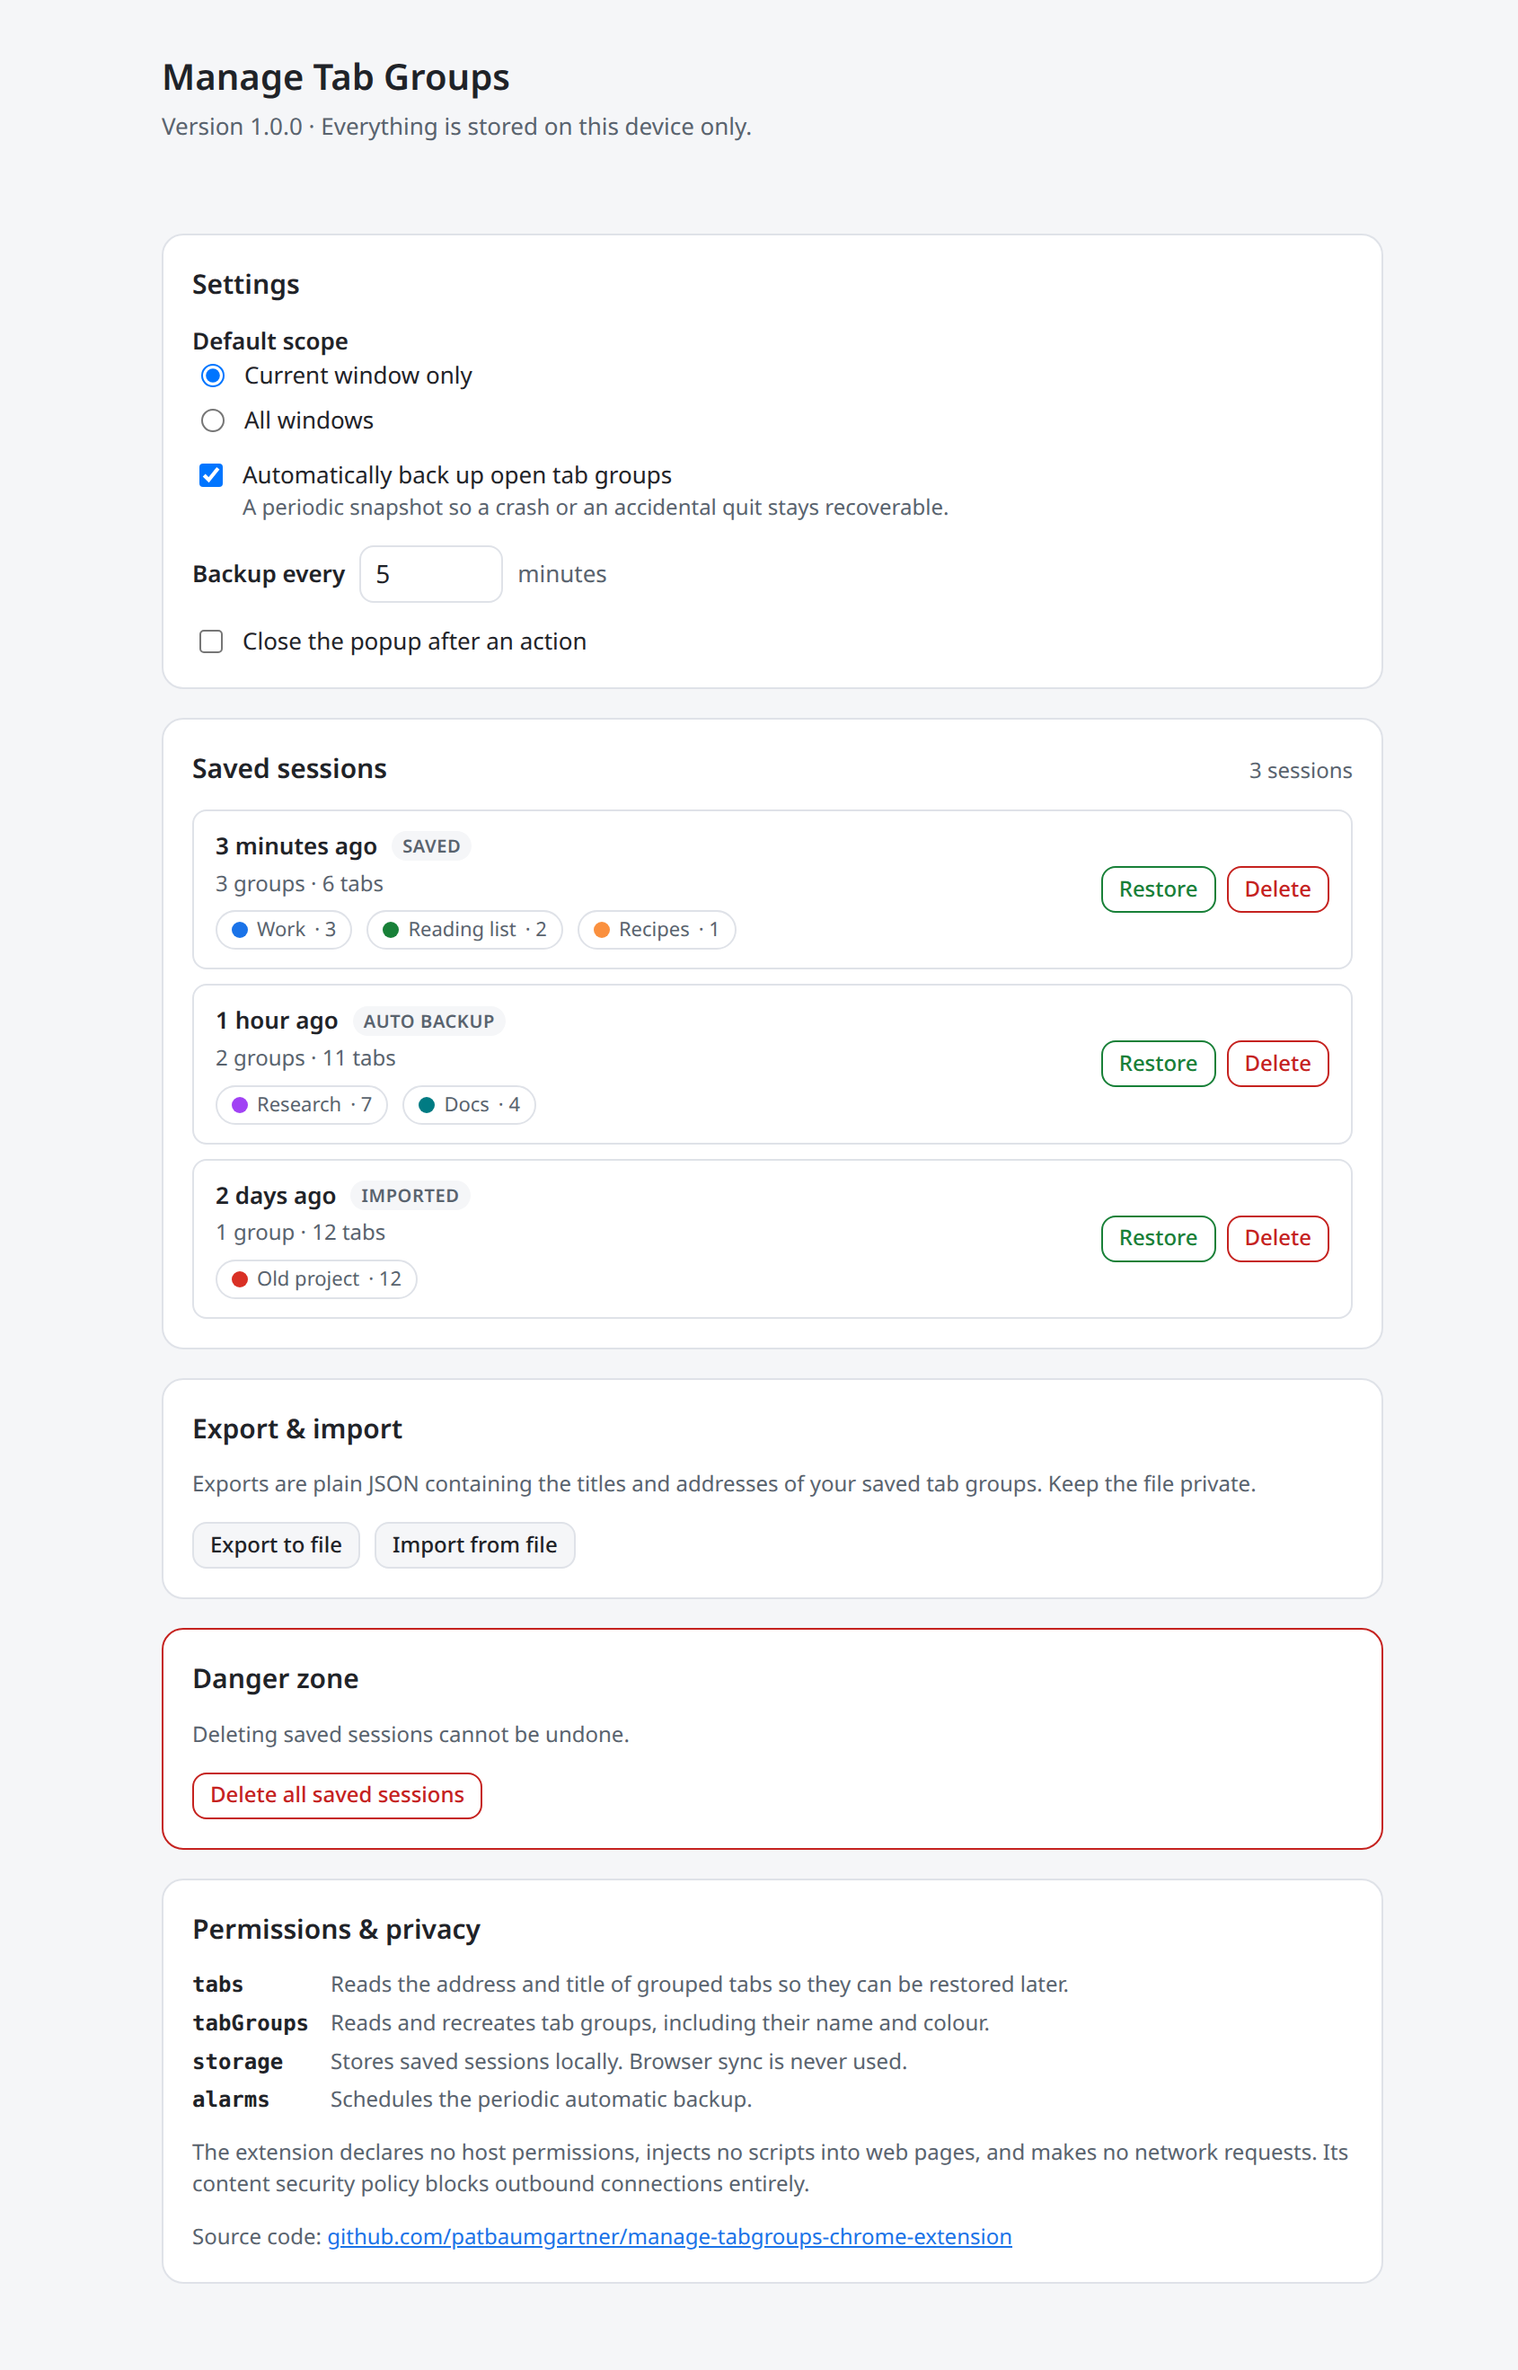
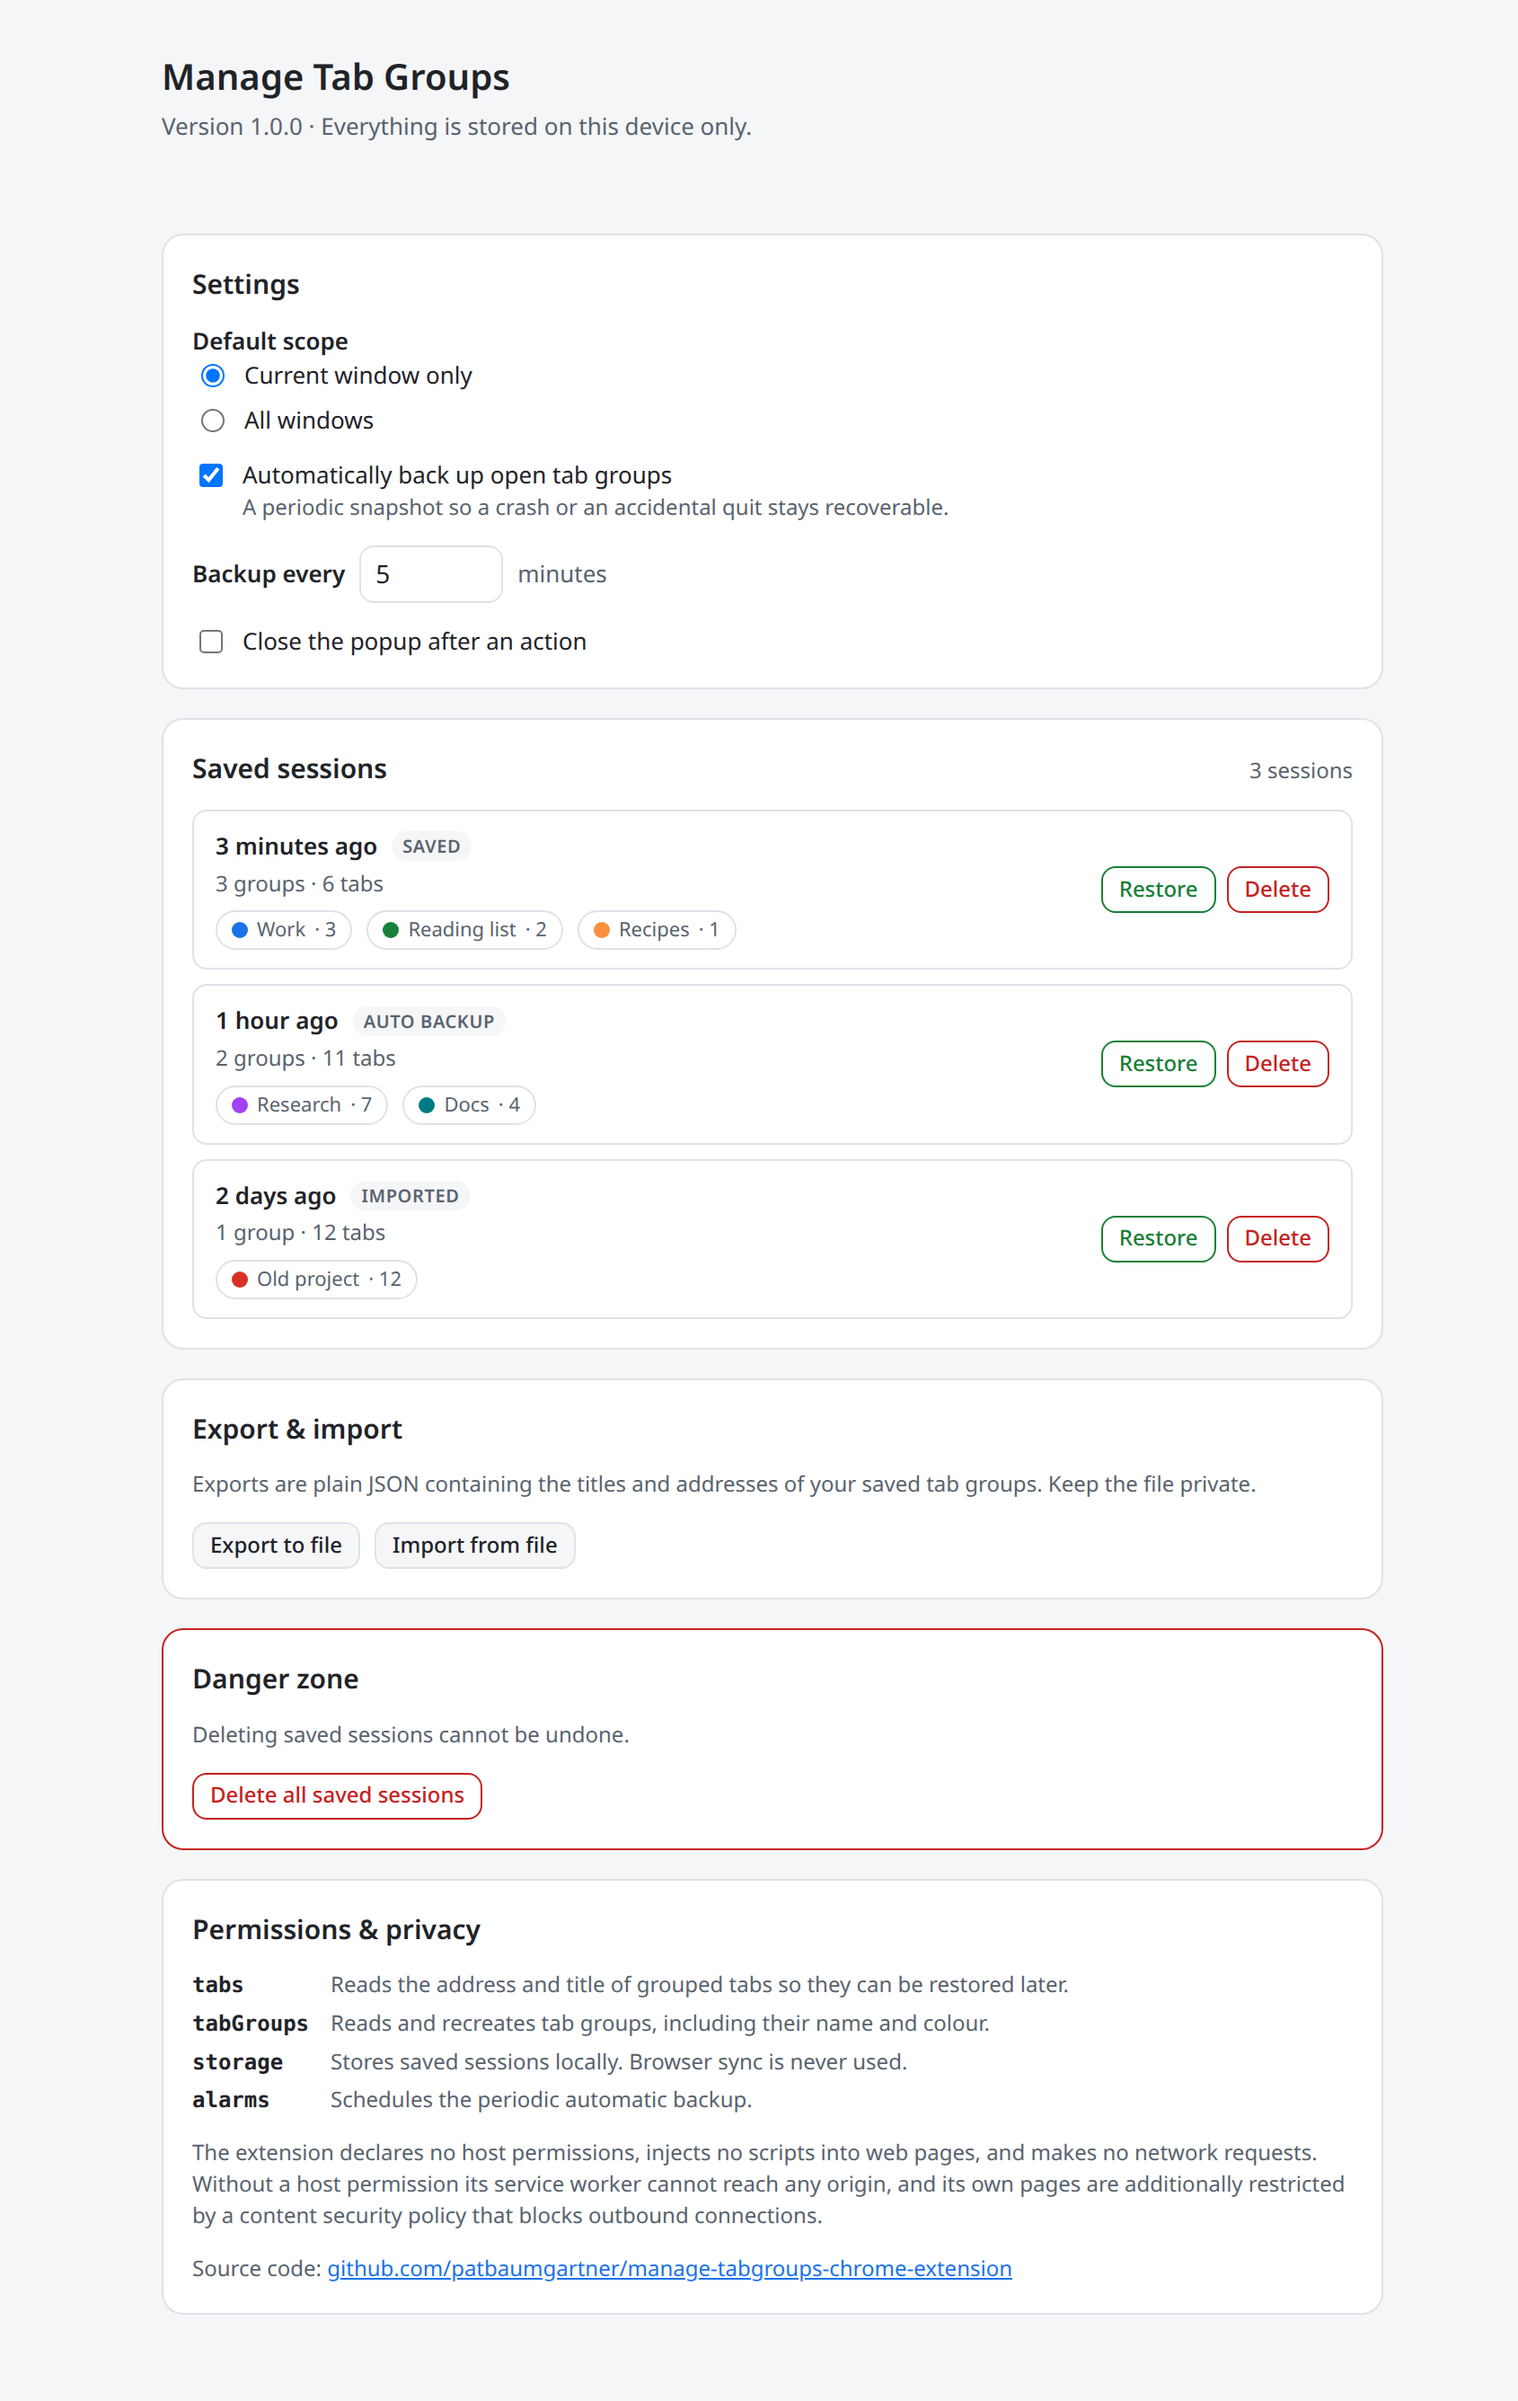
Align the codebase and fix a tab-close regression it exposed
A consistency pass over the whole repository, plus the one real defect that
running the browser test after it uncovered.

The defect: `buildSession` resolved a tab's URL as `url` falling back to
`pendingUrl`, because Chrome reports an empty `url` and puts the target in
`pendingUrl` until a navigation commits. `closeSavedTabs` only read `url`. A tab
that was merely still loading when the close ran therefore looked as though it
had navigated away, so the guard added to protect against real navigation left
it open and reported "1 tab left open (changed while saving)". Both paths now
call a single `resolveTabUrl`, so they cannot drift apart again, and a test
covers a tab that has not committed yet. The end-to-end run caught this, and it
reproduces on demand rather than intermittently.

The alignment work:

- `normalizeSettings` hardcoded `'window'` as the default scope instead of
  reading `DEFAULT_SETTINGS.scope`, so changing that constant would have done
  nothing. It reads the constant now, which is what the other three settings
  already did.
- Six functions were exported but never used outside their own module:
  `summarizeSession`, `captureSession`, `unpackedExtensionId`, `DevToolsPipe`,
  `REPO_ROOT` and `createFakeChrome`. They are internal now, so the public
  surface is only what is genuinely consumed.
- User-visible error text was in two styles. Messages surfaced by a failed
  import were lowercase fragments without punctuation ("file is not valid
[…]

diff --git a/extension/src/model.js b/extension/src/model.js
@@ -124,6 +124,21 @@ export function normalizeUrl(value) {
 }
 
 /**
+ * The URL a live tab should be stored under.
+ *
+ * A tab that has not committed its navigation yet reports an empty `url` and
+ * carries the target in `pendingUrl`. The save path and the close path must
+ * resolve this identically: if they disagree, a tab that is merely still
+ * loading looks like it navigated and is never closed.
+ *
+ * @param {RawTabLike} tab
+ * @returns {string | null}
+ */
+export function resolveTabUrl(tab) {
+  return normalizeUrl(tab.url) ?? normalizeUrl(tab.pendingUrl);
+}
+
+/**
  * @param {unknown} value
  * @returns {string} A color `chrome.tabGroups.update` will accept.
  */
@@ -239,7 +254,7 @@ function convertGroup(group, groupTabs) {
       skippedTabs += 1;
       continue;
     }
-    const url = normalizeUrl(tab.url) ?? normalizeUrl(tab.pendingUrl);
+    const url = resolveTabUrl(tab);
     if (url === null) {
       skippedTabs += 1;
       continue;
@@ -448,16 +463,16 @@ function normalizeId(value, createdAt, groups) {
  */
 export function validateSession(value, options = {}) {
   if (typeof value !== 'object' || value === null || Array.isArray(value)) {
-    return { ok: false, error: 'session is not an object' };
+    return { ok: false, error: 'The session is not an object.' };
   }
   const candidate = /** @type {Record<string, unknown>} */ (value);
   if (!Array.isArray(candidate.groups)) {
-    return { ok: false, error: 'session.groups is not an array' };
+    return { ok: false, error: 'The session has no groups array.' };
   }
 
   const groups = validateGroups(candidate.groups);
   if (groups.length === 0) {
-    return { ok: false, error: 'session contains no restorable tab group' };
+    return { ok: false, error: 'The session contains no restorable tab group.' };
   }
 
   const createdAt = normalizeTimestamp(candidate.createdAt, options.now ?? Date.now());
@@ -502,10 +517,10 @@ export function serializeExport(sessions, meta = {}) {
  */
 export function parseExport(text, options = {}) {
   if (typeof text !== 'string') {
-    return { ok: false, error: 'file could not be read as text' };
+    return { ok: false, error: 'The file could not be read as text.' };
   }
   if (textEncoder.encode(text).length > LIMITS.MAX_IMPORT_BYTES) {
-    return { ok: false, error: 'file is larger than the 8 MB import limit' };
+    return { ok: false, error: 'The file is larger than the 8 MB import limit.' };
   }
 
   /** @type {unknown} */
@@ -513,24 +528,24 @@ export function parseExport(text, options = {}) {
   try {
     parsed = JSON.parse(text);
   } catch {
-    return { ok: false, error: 'file is not valid JSON' };
+    return { ok: false, error: 'The file is not valid JSON.' };
   }
   if (typeof parsed !== 'object' || parsed === null || Array.isArray(parsed)) {
-    return { ok: false, error: 'file does not contain an export object' };
+    return { ok: false, error: 'The file does not contain an export object.' };
   }
 
   const record = /** @type {Record<string, unknown>} */ (parsed);
   if (record.format !== EXPORT_FORMAT) {
-    return { ok: false, error: 'file was not exported by this extension' };
+    return { ok: false, error: 'The file was not exported by this extension.' };
   }
   if (typeof record.schemaVersion === 'number' && record.schemaVersion > SCHEMA_VERSION) {
     return {
       ok: false,
-      error: 'file was written by a newer version of this extension. Update it first.',
+      error: 'The file was written by a newer version of this extension. Update it first.',
     };
   }
   if (!Array.isArray(record.sessions)) {
-    return { ok: false, error: 'export contains no sessions array' };
+    return { ok: false, error: 'The export contains no sessions array.' };
   }
 
   /** @type {Session[]} */
@@ -547,7 +562,7 @@ export function parseExport(text, options = {}) {
   rejected += Math.max(0, record.sessions.length - LIMITS.MAX_IMPORT_SESSIONS);
 
   if (sessions.length === 0) {
-    return { ok: false, error: 'export contains no restorable session' };
+    return { ok: false, error: 'The export contains no restorable session.' };
   }
   return { ok: true, sessions, rejected };
 }

diff --git a/extension/src/actions.js b/extension/src/actions.js
@@ -53,7 +53,7 @@ import {
  * @param {Session} session
  * @returns {SessionSummary}
  */
-export function summarizeSession(session) {
+function summarizeSession(session) {
   const stats = sessionStats(session);
   return {
     id: session.id,
@@ -83,7 +83,7 @@ export function summarizeSession(session) {
  * @returns {Promise<{ session: Session, savedTabs: SavedTab[], skippedTabs: number }>}
  * @throws {Error} When there is nothing to save or the session was not stored.
  */
-export async function captureSession(options = {}) {
+async function captureSession(options = {}) {
   const { groups, tabs } = await collectLiveGroups({
     scope: options.scope,
     windowId: options.windowId,

diff --git a/extension/src/tabgroups.js b/extension/src/tabgroups.js
@@ -11,7 +11,7 @@
  *    window, a fresh new-tab page is opened in it first.
  */
 
-import { normalizeColor, normalizeUrl } from './model.js';
+import { normalizeColor, normalizeUrl, resolveTabUrl } from './model.js';
 
 /**
  * @typedef {import('./model.js').Session} Session
@@ -184,7 +184,7 @@ export async function closeSavedTabs(savedTabs) {
     if (tab === undefined) {
       continue;
     }
-    if (normalizeUrl(tab.url) !== saved.url) {
+    if (resolveTabUrl(tab) !== saved.url) {
       changed += 1;
       continue;
     }

diff --git a/extension/src/settings.js b/extension/src/settings.js
@@ -42,7 +42,8 @@ export function normalizeSettings(value) {
     : DEFAULT_SETTINGS.autoBackupIntervalMinutes;
 
   return {
-    scope: record.scope === 'all' ? 'all' : 'window',
+    scope:
+      record.scope === 'all' || record.scope === 'window' ? record.scope : DEFAULT_SETTINGS.scope,
     autoBackup: toBoolean(record.autoBackup, DEFAULT_SETTINGS.autoBackup),
     autoBackupIntervalMinutes: clampedInterval,
     closePopupAfterAction: toBoolean(

diff --git a/README.md b/README.md
@@ -240,12 +240,14 @@ the dev dependencies are only a type checker, a linter and type definitions.
 
 ```bash
 npm ci
-npm run check      # lint + typecheck + unit tests + bundle validation
-npm test           # unit tests only
-npm run typecheck  # tsc --noEmit over JSDoc-typed sources
-npm run validate   # manifest and source-level security assertions
-npm run build      # reproducible dist/manage-tabgroups-<version>.zip + checksum
-npm run e2e        # load the extension into a real Chrome and exercise it
+npm run check        # everything below except e2e: the gate CI runs
+npm test             # unit tests only
+npm run lint         # Biome, check-only (as CI runs it)
+npm run lint:fix     # Biome, applying formatting and safe fixes
+npm run typecheck    # tsc --noEmit over the JSDoc-typed sources
+npm run validate     # manifest and source-level security assertions
+npm run build        # reproducible dist/manage-tabgroups-<version>.zip + checksum
+npm run e2e          # load the extension into a real Chrome and exercise it
 npm run screenshots  # regenerate the images in docs/screenshots/
 ```
 
@@ -270,7 +272,13 @@ extension/
     messaging.js     Typed sendMessage wrapper
   popup/             One-click actions
   options/           Settings, session management, export and import
-scripts/             Validation, reproducible packaging, browser harness
+  styles/            Shared CSS custom properties and controls
+scripts/
+  validate-manifest.mjs  The security assertions CI enforces
+  build.mjs              Reproducible packaging
+  e2e.mjs                End-to-end run against a real browser
+  screenshots.mjs        Regenerates the images in docs/screenshots/
+  lib/                   Deterministic zip writer, shared DevTools harness
 docs/screenshots/    README images, regenerated by npm run screenshots
 tests/               node:test suites with an in-memory chrome API double
 ```
